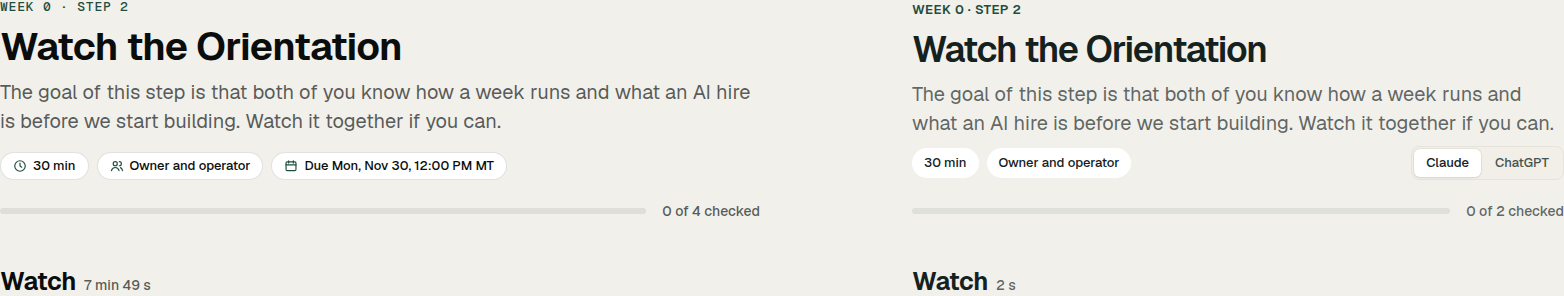
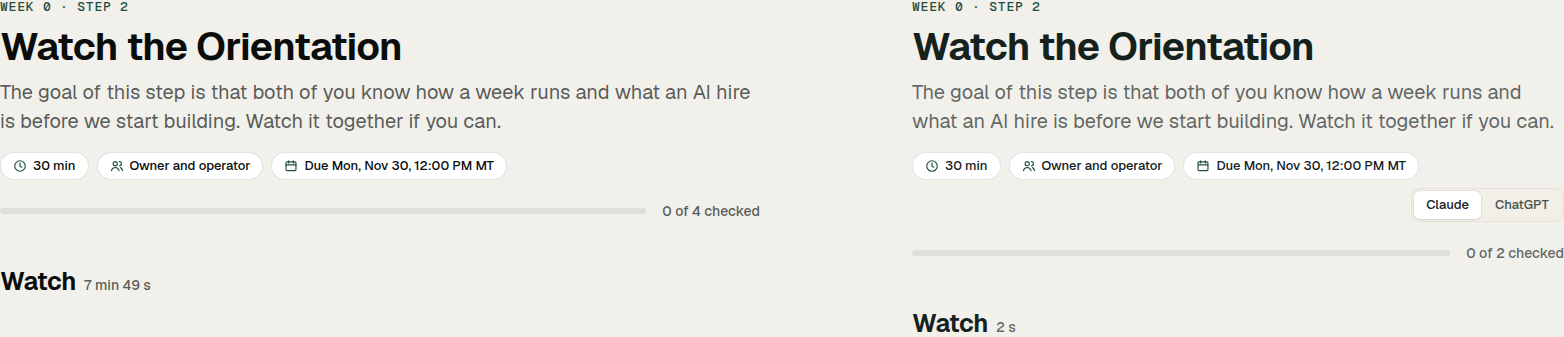
Port the step header chips, eyebrow, and title from the mockup.
Clock, people, and the Mountain Time due date sit on one row. The eyebrow is Geist Mono, and the title stays 39px so it wraps to two lines at 390.

diff --git a/apps/web/src/routes/learn/Checklist.module.css b/apps/web/src/routes/learn/Checklist.module.css
@@ -155,11 +155,21 @@
 }
 .eb {
   margin: 0;
+  font-family: var(--r2-font-mono);
   font-size: var(--r2-fs-13);
-  font-weight: 600;
-  letter-spacing: 0.04em;
+  font-weight: 500;
+  line-height: 1;
+  letter-spacing: 0.06em;
   text-transform: uppercase;
   color: var(--r2-for);
+}
+.head h1 {
+  margin: 4px 0 0;
+  font-size: 39px;
+  font-weight: 650;
+  line-height: 1.15;
+  letter-spacing: -0.015em;
+  text-wrap: wrap;
 }
 .head {
   display: flex;
@@ -179,16 +189,29 @@
   flex-wrap: wrap;
   gap: 8px;
   align-items: center;
+  margin-top: 8px;
+}
+.meta {
+  display: flex;
+  flex-wrap: wrap;
+  gap: 8px;
+  align-items: center;
 }
 .hc {
-  background: var(--r2-sf);
+  display: inline-flex;
+  align-items: center;
+  gap: 6px;
+  height: 28px;
+  padding: 0 12px;
   border-radius: 999px;
-  padding: 5px 12px;
+  background: var(--r2-sf);
+  border: 1px solid color-mix(in srgb, var(--r2-ink) 12%, transparent);
   font-size: var(--r2-fs-13);
   font-weight: 500;
+  line-height: 1;
   color: var(--r2-ink);
 }
-.hrow > :last-child[role='radiogroup'] {
+.hrow > [role='radiogroup'] {
   margin-left: auto;
 }
 .barWrap {

diff --git a/apps/web/src/routes/learn/Checklist.tsx b/apps/web/src/routes/learn/Checklist.tsx
@@ -520,9 +520,11 @@ export function ChecklistPlayer({
         <h1 className={l.h0}>{vm.title}</h1>
         {vm.lede ? <p className={s.purpose}>{vm.lede}</p> : null}
         <div className={s.hrow}>
-          {layout.time ? <span className={s.hc}>{layout.time}</span> : null}
-          {layout.role ? <span className={s.hc}>{layout.role}</span> : null}
-          {layout.countdown ? <span className={s.hc}>{layout.countdown}</span> : null}
+          <div className={s.meta}>
+            {layout.time ? <span className={s.hc}><Icon name="r2Clock" size={14} strokeWidth={2} color="var(--r2-for)" />{layout.time}</span> : null}
+            {layout.role ? <span className={s.hc}><Icon name="r2People" size={14} strokeWidth={2} color="var(--r2-for)" />{layout.role}</span> : null}
+            {layout.due ? <span className={s.hc}><Icon name="r2Cal" size={14} strokeWidth={2} color="var(--r2-for)" />{layout.due}</span> : null}
+          </div>
           {vm.tabs.length > 1 ? (
             <span
               className={l.seg}

diff --git a/packages/core/src/icons.test.ts b/packages/core/src/icons.test.ts
@@ -12,12 +12,12 @@ describe('icons @g1', () => {
   it('draws 81 glyphs of its own', () => expect(Object.keys(lms)).toHaveLength(81));
   // Verbatim against the mockup's `P` map: apps/web/src/styles/r2-tokens.test.ts, which can read it.
   it('adds the R2 mockup’s 45 as r2* (D-160 R2-1b)', () => {
-    expect(Object.keys(r2)).toHaveLength(45);
+    expect(Object.keys(r2)).toHaveLength(48);
   });
   // Verbatim against the learner mockup's artboards: apps/web/src/routes/learn/icons.test.ts, which reads them.
   it('adds the learner v2 mockup’s 13 chrome glyphs as lv* (D-177, D-178)', () => {
     expect(Object.keys(lv)).toHaveLength(13);
-    expect(Object.keys(ICONS)).toHaveLength(139);
+    expect(Object.keys(ICONS)).toHaveLength(142);
   });
   it('every module icon exists in the set', () => {
     for (const name of MODULE_ICONS) expect(ICONS[name]).toBeTruthy();

diff --git a/packages/core/src/icons.ts b/packages/core/src/icons.ts
@@ -131,6 +131,10 @@ export const ICONS = {
   r2Down: "M12 5v14M6 13l6 6 6-6",
   r2File: "M6 3h8l4 4v14H6zM14 3v4h4",
   r2Play: "M7 5l12 7-12 7V5z",
+  // Week 0 step header chips, path data from design-reference/week0-polish/step-2.html.
+  r2Clock: "M21 12a9 9 0 1 1-18 0 9 9 0 0 1 18 0M12 7v5l3 2",
+  r2People: "M12.5 8a3.5 3.5 0 1 1-7 0 3.5 3.5 0 0 1 7 0M2.5 20c.8-3.4 3.4-5.5 6.5-5.5s5.7 2.1 6.5 5.5M16 4.5a3.5 3.5 0 0 1 0 7M18 14.8c1.8.8 3 2.6 3.5 5.2",
+  r2Cal: "M5.5 5H18.5A2 2 0 0 1 20.5 7V18A2 2 0 0 1 18.5 20H5.5A2 2 0 0 1 3.5 18V7A2 2 0 0 1 5.5 5zM3.5 10h17M8 3v4M16 3v4",
   r2Refresh: "M20 12a8 8 0 0 1-14 5M4 12a8 8 0 0 1 14-5M18 3v4h-4M6 21v-4h4",
   // Learner portal v2 (D-177): the signed-off learner mockup's own chrome glyphs, path data verbatim from
   // docs/design/learner-v2 (its lock's two paths, body and shackle, as one).

diff --git a/apps/web/src/styles/r2-tokens.test.ts b/apps/web/src/styles/r2-tokens.test.ts
@@ -84,6 +84,6 @@ describe('the R2 tokens (D-160 R2-1b)', () => {
     );
     expect(p).toHaveLength(45);
     for (const [name, d] of p) expect((ICONS as Record<string, string>)[name], name).toBe(d);
-    expect(Object.keys(ICONS).filter((k) => k.startsWith('r2'))).toHaveLength(45);
+    expect(Object.keys(ICONS).filter((k) => k.startsWith('r2'))).toHaveLength(48);
   });
 });

diff --git a/DECISIONS.md b/DECISIONS.md
@@ -6787,7 +6787,7 @@ CLAUDE.md says this file only grows with explicit human approval, and this is it
 - **Ring.** Marking the step done plays one energy ring on that button: opacity 0.85 at scale 1, fading out to scale 1.18 by 1.5, over 600ms. It plays once.
 - **Check.** The checklist box and the Mark step done mark draw the check. The path is always in the box; checking it runs the stroke from empty to drawn.
 - **Done.** The button leaves the forest fill for a mint wash and forest text. The line under it reads `Nice work. Step N is next.` Undo is weight 500 in forest. The next card's mint bar grows, and its arrow moves 3px right on hover.
-- **Header.** The goal is a step field, edited in the Week Builder, and step 2's seed carries the mockup sentence. Under the chips, a 6px track and a right-aligned `N of M checked` share one row. `Watch` carries the video's length once the file reports it (`7 min 49 s`).
+- **Header.** The goal is a step field, edited in the Week Builder, and step 2's seed carries the mockup sentence. The eyebrow is Geist Mono, weight 500, letter-spacing 0.06em. The title is 39px, weight 650, line-height 1.15. The chips are a clock, people, and a calendar with the due date in Mountain Time (`Due Mon, Nov 30, 12:00 PM MT`). Under the chips, a 6px track and a right-aligned `N of M checked` share one row. `Watch` carries the video's length once the file reports it (`7 min 49 s`). The Claude/ChatGPT switch stays, beside the chips when the row has room and on the next line when it does not, so it does not split them.
 - **Play.** The checklist `Play from` mark is the solid play glyph.
 - **Halo.** A checkbox hover sets the box border to forest and `box-shadow: 0 0 0 4px` of forest at 6%.
 - **Reduced motion.** The ring is not drawn. Hover does not lift or move the arrow. The colour change and the drawn check remain.
